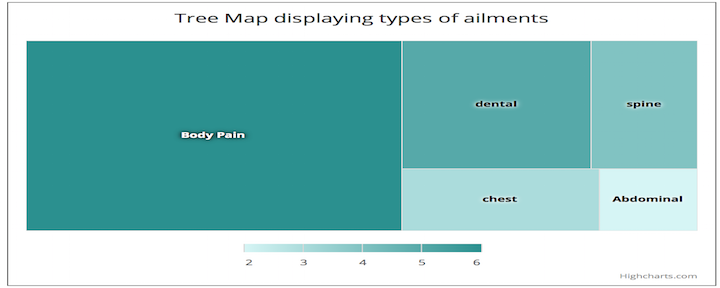
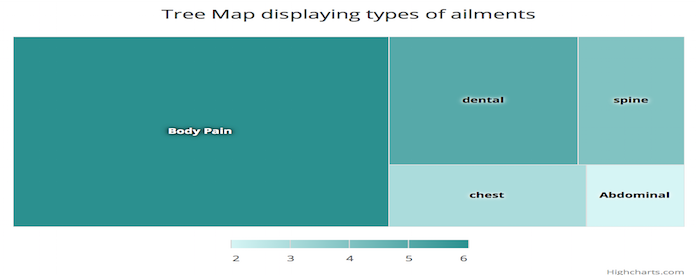
modified dashboard

diff --git a/public/css/component.css b/public/css/component.css
@@ -17,11 +17,11 @@ nav a {
 	outline: none;
 	color: #fff;
 	text-decoration: none;
-	text-transform: uppercase;
+	text-transform: capitalize;
 	letter-spacing: 1px;
 	font-weight: 400;
 	text-shadow: 0 0 1px rgba(255,255,255,0.3);
-	font-size: 1.35em;
+	font-size: 150%;
 }
 
 nav a:hover,
@@ -127,7 +127,7 @@ nav a:focus {
 
 /* Effect 3: bottom line slides/fades in */
 .cl-effect-3 a {
-	padding: 8px 0;
+	padding: 4px 0;
 	color: #28a2ee;
 }
 
@@ -136,7 +136,7 @@ nav a:focus {
 	top: 100%;
 	left: 0;
 	width: 100%;
-	height: 4px;
+	height: 3px;
 	background: rgba(0,0,0,0.1);
 	content: '';
 	opacity: 0;

diff --git a/public/data/treemap-functions.js b/public/data/treemap-functions.js
@@ -59,7 +59,10 @@ function showGraph(){
 				        }],
 				        title: {
 				            text: 'Tree Map displaying types of ailments'
-				        }
+				        },
+				        subtitle: {
+			                text: 'Click on ailments to view their procedure codes'
+			            }
 				    });
 				});
 
@@ -74,7 +77,7 @@ function showGraph(){
 function getTreeData(name){
 	
 
-    document.getElementById("backtodash").align="center";	
+    document.getElementById("backtodash").align="right";	
     
     
     document.getElementById("container").style.float="left";

diff --git a/views/acceptreject.html b/views/acceptreject.html
@@ -4,8 +4,9 @@
 
 <style>
 #chartdiv {
-  width: 100%;
-  height:500px;
+  width: 75%;
+  height:450px;
+ 
 }	
 </style>
 
@@ -22,11 +23,11 @@
 <% include header %>
 <br><br><br>
 
-<div id="backtodash" style="margin-right:25%;" align="right">
+<div id="backtodash" style="margin-right:20%;" align="right">
 		<a href="/#dashboard" class="btn btn-info">Go Back</a>
 	</div>
 	
-<div class="container" style="min-width:50%; height:50%; margin: 0 auto">
+<div class="container" style="min-width:50%; height:50%; margin: 0 auto" align="center">
 
 <div id="chartdiv" ></div>
 

diff --git a/public/data/kmeanschart-functions.js b/public/data/kmeanschart-functions.js
@@ -3,16 +3,17 @@
 
 
 function showGraph(){
+	$("#line").on('click', function() {
+		 //alert ("inside onclick");
+		showGraph();
+	});
 
 	$("#bubble").on('click', function() {
 		// alert ("inside onclick");
 		showGraphBubble();
 	});
 
-	$("#line").on('click', function() {
-		// alert ("inside onclick");
-		showGraph();
-	});
+	
 
 	var clusterParam = document.getElementById("cluster").value;
 	console.log(clusterParam);

diff --git a/public/data/pie-functions.js b/public/data/pie-functions.js
@@ -20,6 +20,10 @@ function showGraph(){
         },
         title: {
             text: 'Trends in EHR Adoption by Rural and Small Hospitals in U.S'
+            	
+        },
+        subtitle: {
+            text: 'Click on pie sections to view the EHR Adoption in each state in U.S'
         },
         tooltip: {
             pointFormat: '{series.name}: <b>{point.percentage:.1f}%</b>'

diff --git a/public/data/regionmap-functions.js b/public/data/regionmap-functions.js
@@ -25,6 +25,10 @@ $(function () {
             title : {
                 text : 'Basic EHR Adoption Rate'
             },
+            
+            subtitle: {
+                text: 'CLick on each state to view the EHR Adoption yearly'
+            }
 
             legend: {
                 layout: 'horizontal',
